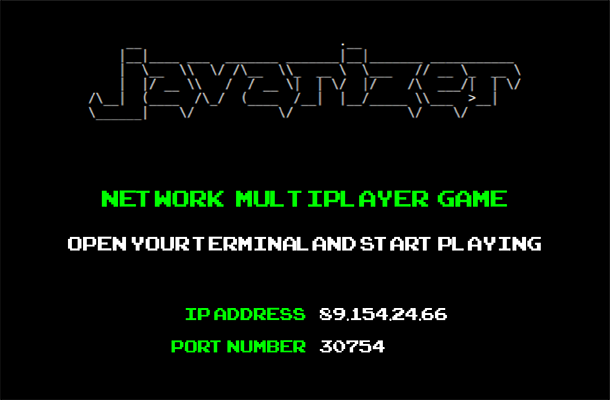
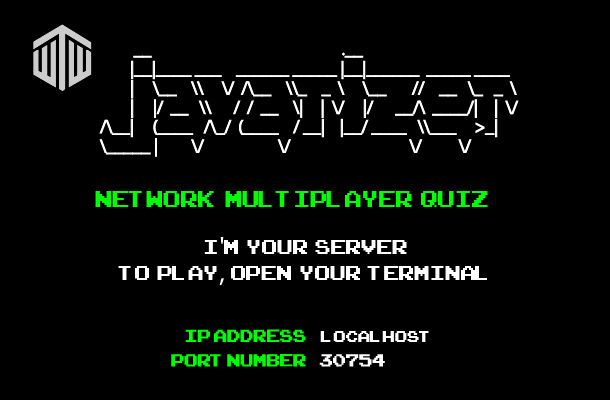
added keyboard listener to quit server, build.xml and changed server picture

diff --git a/src/org/academiadecodigo/weekendteamwork/javarizer/util/KeyboardListener.java b/src/org/academiadecodigo/weekendteamwork/javarizer/util/KeyboardListener.java
@@ -1,0 +1,36 @@
+package org.academiadecodigo.weekendteamwork.javarizer.util;
+
+import org.academiadecodigo.simplegraphics.keyboard.Keyboard;
+import org.academiadecodigo.simplegraphics.keyboard.KeyboardEvent;
+import org.academiadecodigo.simplegraphics.keyboard.KeyboardEventType;
+import org.academiadecodigo.simplegraphics.keyboard.KeyboardHandler;
+
+public class KeyboardListener implements KeyboardHandler {
+
+    // constructor
+    public KeyboardListener() {
+
+        this.setup();
+    }
+
+    public void setup() {
+        Keyboard keyboard = new Keyboard(this);
+
+        KeyboardEvent q = new KeyboardEvent();
+        q.setKey(KeyboardEvent.KEY_Q);
+        q.setKeyboardEventType(KeyboardEventType.KEY_PRESSED);
+        keyboard.addEventListener(q);
+
+    }
+
+    @Override
+    public void keyPressed(KeyboardEvent keyboardEvent) {
+        if (keyboardEvent.getKey() == KeyboardEvent.KEY_Q) {
+            System.exit(0);
+        }
+    }
+
+    @Override
+    public void keyReleased(KeyboardEvent keyboardEvent) {
+    }
+}

diff --git a/src/org/academiadecodigo/weekendteamwork/javarizer/Server.java b/src/org/academiadecodigo/weekendteamwork/javarizer/Server.java
@@ -114,10 +114,8 @@ public class Server {
         if ( maxConnections == 1) {
             mates = "|  So I see you have no friends... Just like me...   |\n";
         } else{
-            mates = "|              Quiz will start in 5 seconds...       |\n";
+            mates = "|              Quiz will start in 3 seconds...       |\n";
         }
-
-
 
         try {
             broadcast("\n\n                        .-\"\"\"-.\n" +
@@ -134,7 +132,7 @@ public class Server {
                     "                       |__|__|\n" +
                     "                       /-'Y'-\\\n" +
                     "                      (__/ \\__)\n\n");
-            Thread.sleep(5000);
+            Thread.sleep(3000);
 
         } catch (InterruptedException e) {
             e.printStackTrace();

diff --git a/src/org/academiadecodigo/weekendteamwork/javarizer/Main.java b/src/org/academiadecodigo/weekendteamwork/javarizer/Main.java
@@ -1,5 +1,7 @@
 package org.academiadecodigo.weekendteamwork.javarizer;
 
+import org.academiadecodigo.weekendteamwork.javarizer.util.KeyboardListener;
+
 public class Main {
 
     /**
@@ -11,6 +13,7 @@ public class Main {
     public static void main(String[] args) {
 
         new ServerPic();
+        new KeyboardListener();
         Server server = new Server(PORT);
         server.start();
     }

diff --git a/README.md b/README.md
@@ -7,6 +7,6 @@ Credits:
 Isaac Santos  
 João Almeida  
 Leandro Leite  
-Margarida Conçalves  
+Margarida Gonçalves  
 Vânia Costa
 
